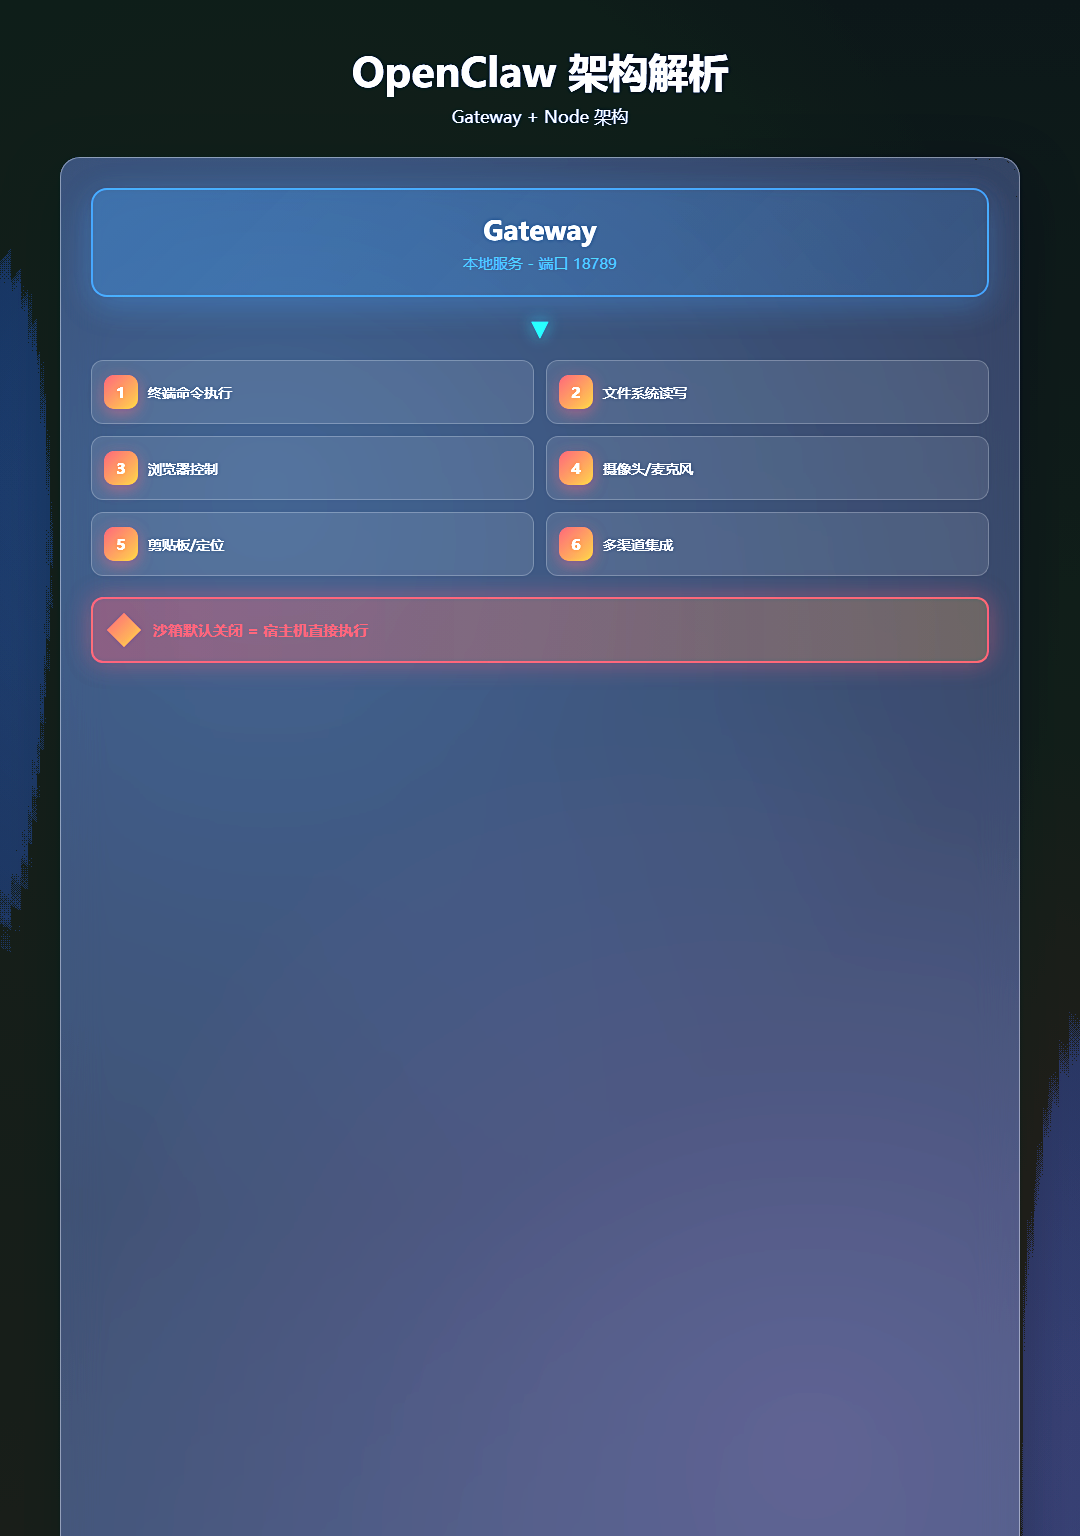
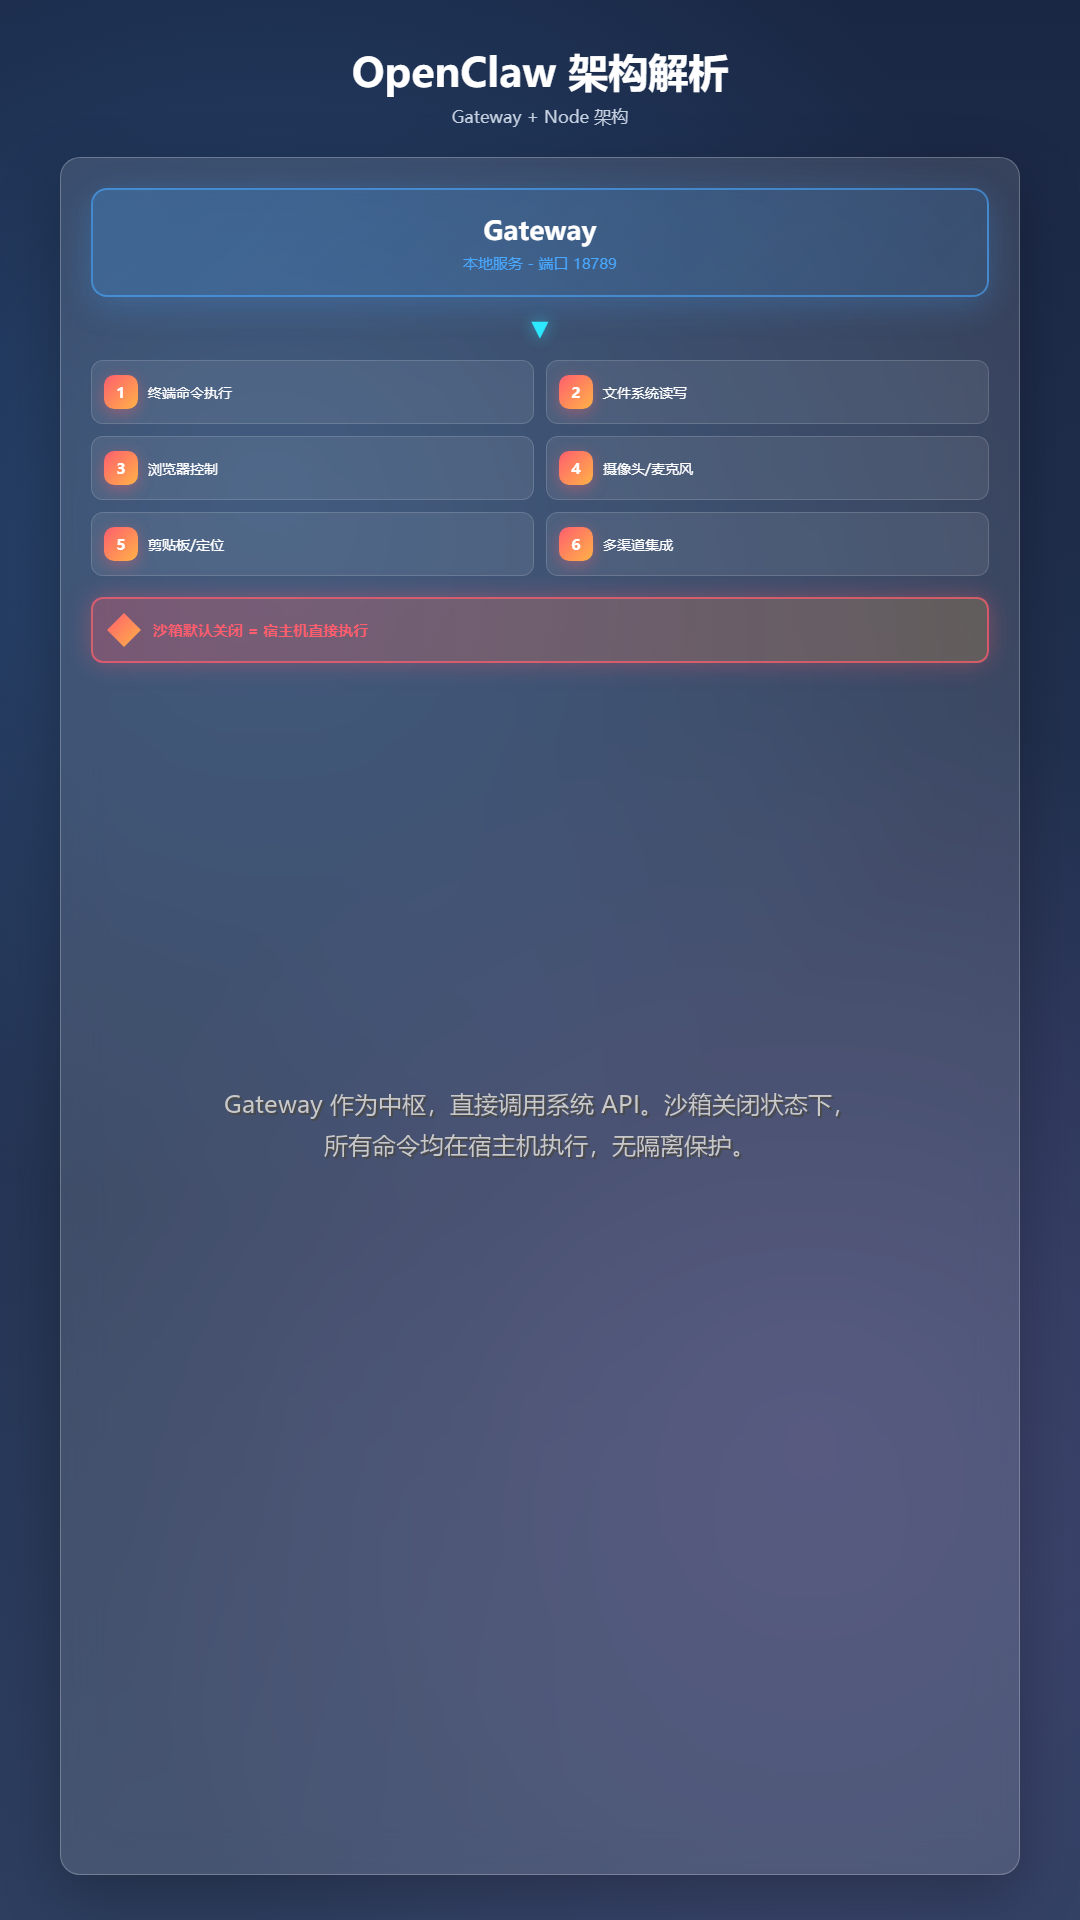
排版优化：添加文字填充留白（保持 9:16 比例）

diff --git a/02_内容项目/审稿中/OpenClaw 安全性分析/layout_fix.py b/02_内容项目/审稿中/OpenClaw 安全性分析/layout_fix.py
@@ -1,0 +1,240 @@
+"""
+OpenClaw 安全性分析图像排版优化脚本 v3
+优化方向：重新排版文字填充留白，保持 9:16 比例，不裁剪
+"""
+
+from PIL import Image, ImageDraw, ImageFont
+import os
+
+INPUT_DIR = r"C:\Users\pnn\Desktop\socialmedia-work-studio\02_内容项目\审稿中\OpenClaw 安全性分析\fig\optimized"
+OUTPUT_DIR = r"C:\Users\pnn\Desktop\socialmedia-work-studio\02_内容项目\审稿中\OpenClaw 安全性分析\fig\optimized"
+
+def get_font(size):
+    """获取中文字体"""
+    font_paths = [
+        "C:/Windows/Fonts/msyh.ttc",      # 微软雅黑
+        "C:/Windows/Fonts/simhei.ttf",    # 黑体
+        "C:/Windows/Fonts/simsun.ttc",    # 宋体
+    ]
+    for font_path in font_paths:
+        try:
+            return ImageFont.truetype(font_path, size)
+        except:
+            continue
+    return ImageFont.load_default()
+
+def add_text_to_image(img_path, output_path, additions):
+    """在图片上添加文字"""
+    img = Image.open(img_path).convert("RGBA")
+    draw = ImageDraw.Draw(img)
+    width, height = img.size
+    
+    for text_config in additions:
+        text = text_config["text"]
+        position = text_config["position"]  # (x, y)
+        font_size = text_config.get("font_size", 24)
+        color = text_config.get("color", (255, 255, 255))
+        anchor = text_config.get("anchor", "mm")  # 居中对齐
+        shadow = text_config.get("shadow", True)
+        
+        font = get_font(font_size)
+        
+        # 计算文字边界框
+        bbox = draw.textbbox((0, 0), text, font=font, anchor=anchor)
+        text_w = bbox[2] - bbox[0]
+        text_h = bbox[3] - bbox[1]
+        
+        # 计算实际绘制位置
+        if anchor == "mm":
+            x, y = position
+            x = x - text_w // 2
+            y = y - text_h // 2
+        elif anchor == "ma":
+            x, y = position
+            x = x - text_w // 2
+        else:
+            x, y = position
+        
+        # 绘制阴影
+        if shadow:
+            shadow_offset = 2
+            shadow_color = (0, 0, 0, 180)
+            draw.text((x + shadow_offset, y + shadow_offset), text, fill=shadow_color, font=font)
+        
+        # 绘制文字
+        draw.text((x, y), text, fill=color, font=font)
+    
+    img.save(output_path, "PNG", optimize=True)
+    print(f"[OK] {os.path.basename(output_path)}")
+
+def main():
+    print("=" * 60)
+    print("OpenClaw 安全性分析 - 排版优化 v3")
+    print("=" * 60)
+    print()
+    
+    # 01_cover: 添加引言
+    add_text_to_image(
+        os.path.join(INPUT_DIR, "01_cover.png"),
+        os.path.join(OUTPUT_DIR, "01_cover.png"),
+        [
+            {
+                "text": "27 万星标的开源项目，背后藏着怎样的安全隐患？",
+                "position": (540, 700),
+                "font_size": 28,
+                "color": (200, 200, 200),
+            },
+            {
+                "text": "从 RCE 漏洞到 ClawJacked 攻击，深度解析 AI 代理的安全边界。",
+                "position": (540, 750),
+                "font_size": 24,
+                "color": (180, 180, 180),
+            },
+            {
+                "text": "↓ 下滑查看完整分析 ↓",
+                "position": (540, 1700),
+                "font_size": 22,
+                "color": (255, 51, 51),
+            },
+        ]
+    )
+    
+    # 02_architecture: 添加补充说明
+    add_text_to_image(
+        os.path.join(INPUT_DIR, "02_architecture.png"),
+        os.path.join(OUTPUT_DIR, "02_architecture.png"),
+        [
+            {
+                "text": "Gateway 作为中枢，直接调用系统 API。沙箱关闭状态下，",
+                "position": (540, 1100),
+                "font_size": 24,
+                "color": (200, 200, 200),
+            },
+            {
+                "text": "所有命令均在宿主机执行，无隔离保护。",
+                "position": (540, 1140),
+                "font_size": 24,
+                "color": (200, 200, 200),
+            },
+        ]
+    )
+    
+    # 03_timeline: 添加事件详情（文字在卡片内部）
+    add_text_to_image(
+        os.path.join(INPUT_DIR, "03_timeline.png"),
+        os.path.join(OUTPUT_DIR, "03_timeline.png"),
+        [
+            {
+                "text": "攻击者可远程执行任意代码",
+                "position": (540, 220),
+                "font_size": 18,
+                "color": (200, 200, 200),
+            },
+            {
+                "text": "1.5 万实例存在 RCE 漏洞",
+                "position": (540, 360),
+                "font_size": 18,
+                "color": (200, 200, 200),
+            },
+            {
+                "text": "1184 个恶意技能含窃密脚本",
+                "position": (540, 500),
+                "font_size": 18,
+                "color": (200, 200, 200),
+            },
+            {
+                "text": "CVSS 8.8 高危，任意网站可接管",
+                "position": (540, 640),
+                "font_size": 18,
+                "color": (255, 100, 100),
+            },
+            {
+                "text": "⚠ 3 个月内 4 起重大安全事件",
+                "position": (540, 800),
+                "font_size": 24,
+                "color": (255, 51, 51),
+            },
+        ]
+    )
+    
+    # 04_attack_flow: 添加防护建议
+    add_text_to_image(
+        os.path.join(INPUT_DIR, "04_attack_flow.png"),
+        os.path.join(OUTPUT_DIR, "04_attack_flow.png"),
+        [
+            {
+                "text": "防护建议：禁用 WebSocket 连接本地代理 / 设置强密码 / 仅监听 127.0.0.1",
+                "position": (540, 1500),
+                "font_size": 24,
+                "color": (100, 200, 100),
+            },
+        ]
+    )
+    
+    # 05_risk_matrix: 添加结论
+    add_text_to_image(
+        os.path.join(INPUT_DIR, "05_risk_matrix.png"),
+        os.path.join(OUTPUT_DIR, "05_risk_matrix.png"),
+        [
+            {
+                "text": "企业用户面临全方位高风险，需专业部署方案",
+                "position": (540, 1650),
+                "font_size": 26,
+                "color": (255, 51, 51),
+            },
+        ]
+    )
+    
+    # 06_checklist: 添加分类和优先级
+    add_text_to_image(
+        os.path.join(INPUT_DIR, "06_checklist.png"),
+        os.path.join(OUTPUT_DIR, "06_checklist.png"),
+        [
+            {
+                "text": "【安装部署】",
+                "position": (270, 120),
+                "font_size": 20,
+                "color": (150, 150, 150),
+            },
+            {
+                "text": "【权限管理】",
+                "position": (810, 120),
+                "font_size": 20,
+                "color": (150, 150, 150),
+            },
+            {
+                "text": "【日常使用】",
+                "position": (270, 520),
+                "font_size": 20,
+                "color": (150, 150, 150),
+            },
+            {
+                "text": "🔴必做：1-4 项   🟡建议：5-10 项",
+                "position": (540, 1700),
+                "font_size": 22,
+                "color": (200, 200, 200),
+            },
+        ]
+    )
+    
+    # 07_summary: 添加行动呼吁
+    add_text_to_image(
+        os.path.join(INPUT_DIR, "07_summary.png"),
+        os.path.join(OUTPUT_DIR, "07_summary.png"),
+        [
+            {
+                "text": "立即检查你的部署配置 →",
+                "position": (540, 1750),
+                "font_size": 24,
+                "color": (100, 200, 100),
+            },
+        ]
+    )
+    
+    print()
+    print("=" * 60)
+    print("排版优化完成！")
+    print("=" * 60)
+
+if __name__ == "__main__":
+    main()
